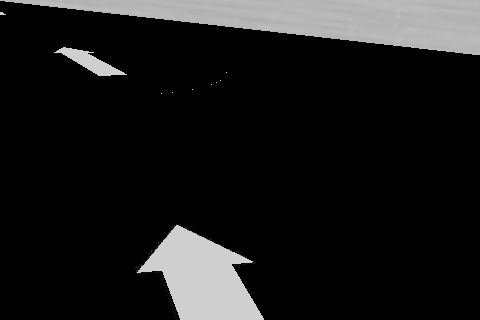
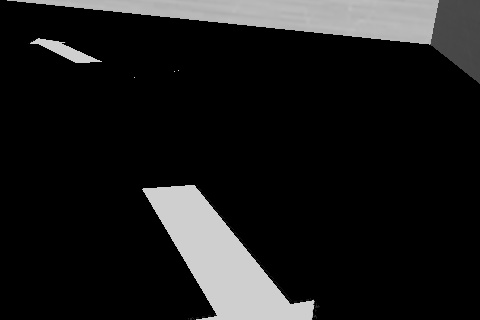
Nearing Finish

diff --git a/deploy_scripts/D_GAScript.py b/deploy_scripts/D_GAScript.py
@@ -49,6 +49,7 @@ class D_GA():
         states = ['track arrow', 'blind drive', 'array drive', 'is_exit']
         initial_state = 'track first arrow'
         actions = { 'track first arrow':self.cap_first_arrow,\
+                    'track next arrow':self.cap_next_arrow,\
                     'blind drive': self.blind_find_arrow,\
                     'array drive':self.array_align_arrow,\
                     'is_exit': self.check_exit_found }
@@ -301,13 +302,24 @@ class D_GA():
                         except KeyError:
                             fsm_instance.temp_kwargs['bearing buffer'] = [bearingAngle]
                     else:
+                        self.robot.stop()
                         fsm_instance.transition_to('blind drive')
 
 
 
     def blind_find_arrow(self, fsm_instance):
-        self.robot.stop()
-        print('Implement Blind Following quickly please')
+        
+        linear_speed = 2
+        arr=self.robot.get_line_sensor_val()
+
+
+        whiteCount = np.sum(arr>500)
+        self.robot.move_forward()
+
+        if whiteCount>1:
+            self.robot.stop()
+            fsm_instance.transition_to('array drive')
+
 
     def decode_arrow(self, fsm_instance):        
         # sure and shot figure which way the arrow is pointing
@@ -315,8 +327,28 @@ class D_GA():
         pass
 
 
-    def array_align_arrow(self, fsm_instance):
+    def cap_next_arrow(self, fsm_instance):
         pass
+
+
+    def array_align_arrow(self, fsm_instance):
+        
+        # Look for exit condition
+        linear_speed = 0.5
+        arr=self.robot.get_line_sensor_val()
+        error= 1*arr[0]+0.5*arr[1]+0.25*arr[2]-0.25*arr[3]-0.5**arr[4]-1*arr[5]
+        gamma= 0.0025
+        lspeed=linear_speed-error*gamma
+        rspeed=linear_speed+error*gamma
+        self.robot.set_speed(lspeed,rspeed)
+
+        blackCount = np.sum(arr<500)
+        print(blackCount)
+        if blackCount==6:
+            self.robot.stop()
+            
+            #fsm_instance.transition_to('turn_to_direction')
+            
 
 
     def to_next_arrow(self, fsm_instance):
